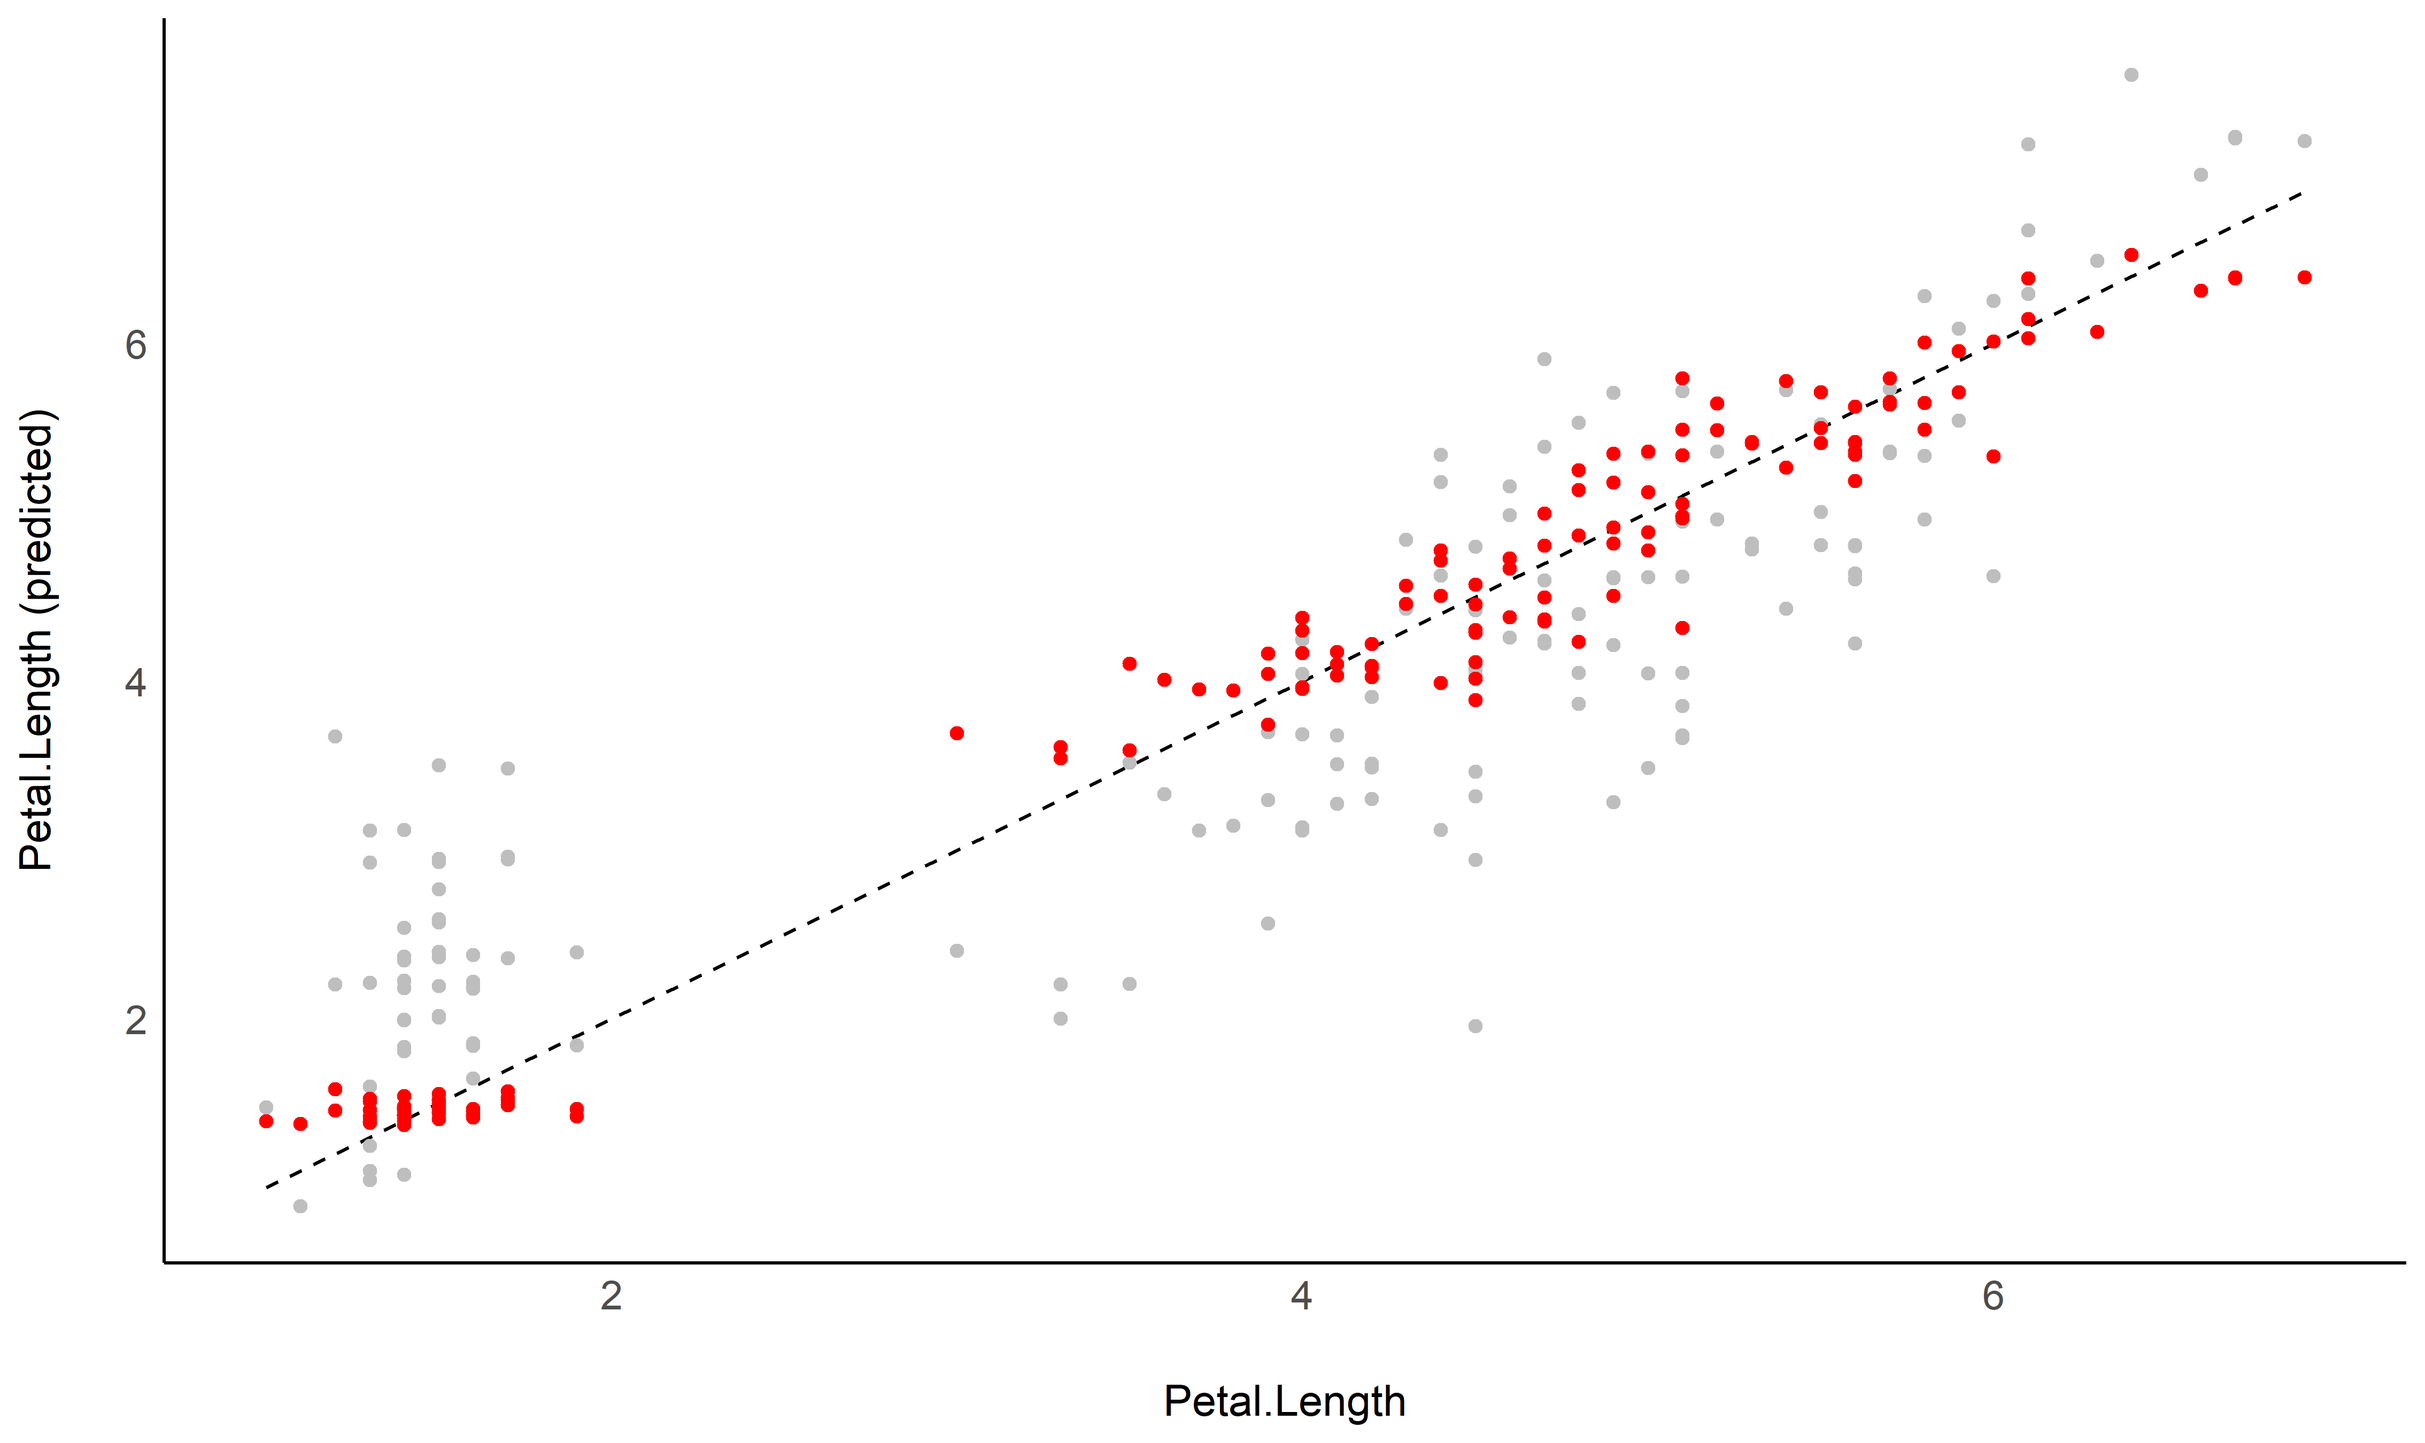
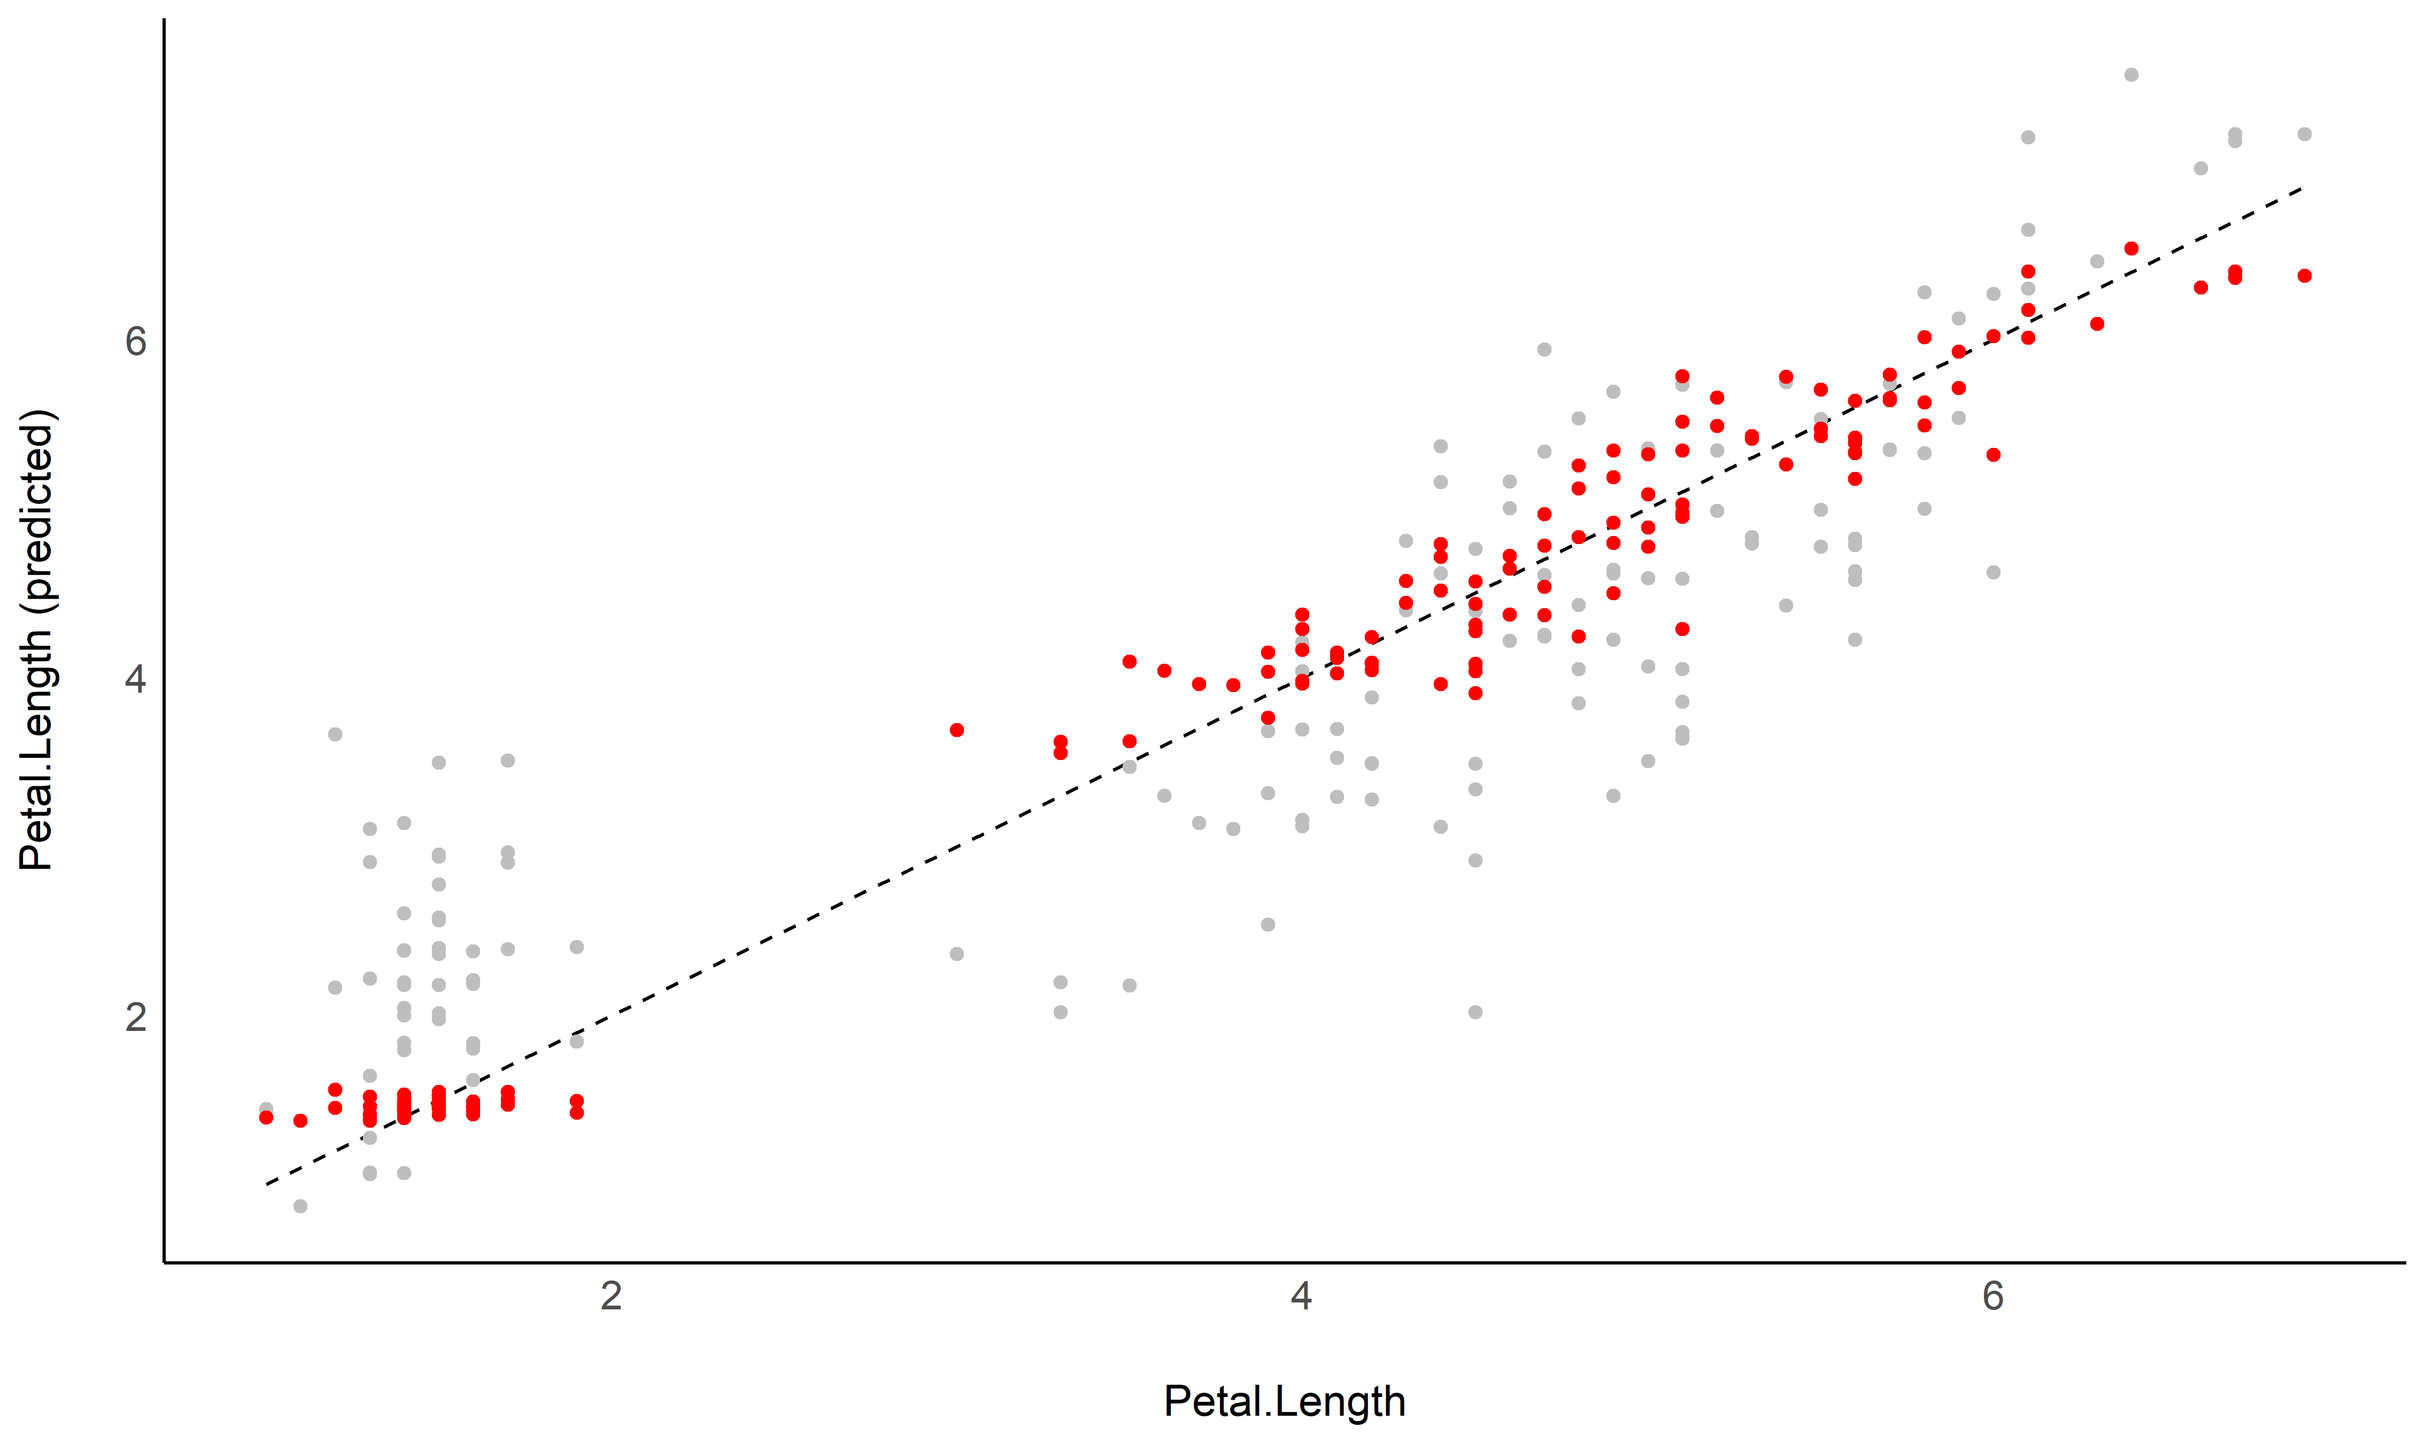
start renaming

diff --git a/README.md b/README.md
@@ -1,13 +1,13 @@
 
-# estimate <img src='man/figures/logo.png' align="right" height="139" />
+# modelbased <img src='man/figures/logo.png' align="right" height="139" />
 
-[![CRAN](http://www.r-pkg.org/badges/version/estimate)](https://cran.r-project.org/package=estimate)
-[![downloads](http://cranlogs.r-pkg.org/badges/estimate)](https://cran.r-project.org/package=estimate)
+[![CRAN](http://www.r-pkg.org/badges/version/modelbased)](https://cran.r-project.org/package=modelbased)
+[![downloads](http://cranlogs.r-pkg.org/badges/modelbased)](https://cran.r-project.org/package=modelbased)
 [![Build
-Status](https://travis-ci.org/easystats/estimate.svg?branch=master)](https://travis-ci.org/easystats/estimate)
-[![codecov](https://codecov.io/gh/easystats/estimate/branch/master/graph/badge.svg)](https://codecov.io/gh/easystats/estimate)
+Status](https://travis-ci.org/easystats/modelbased.svg?branch=master)](https://travis-ci.org/easystats/modelbased)
+[![codecov](https://codecov.io/gh/easystats/modelbased/branch/master/graph/badge.svg)](https://codecov.io/gh/easystats/modelbased)
 
-`estimate` is a lightweight package helping with model-based
+`modelbased` is a lightweight package helping with model-based
 estimations, used in the computation of marginal means, contrast
 analysis and predictions.
 
@@ -17,53 +17,53 @@ Run the following:
 
 ``` r
 install.packages("devtools")
-devtools::install_github("easystats/estimate")
+devtools::install_github("easystats/modelbased")
 ```
 
 ``` r
-library("estimate")
+library("modelbased")
 ```
 
 ## Documentation
 
-[![Documentation](https://img.shields.io/badge/documentation-estimate-orange.svg?colorB=E91E63)](https://easystats.github.io/estimate/)
+[![Documentation](https://img.shields.io/badge/documentation-modelbased-orange.svg?colorB=E91E63)](https://easystats.github.io/modelbased/)
 [![Blog](https://img.shields.io/badge/blog-easystats-orange.svg?colorB=FF9800)](https://easystats.github.io/blog/posts/)
-[![Features](https://img.shields.io/badge/features-estimate-orange.svg?colorB=2196F3)](https://easystats.github.io/estimate/reference/index.html)
+[![Features](https://img.shields.io/badge/features-modelbased-orange.svg?colorB=2196F3)](https://easystats.github.io/modelbased/reference/index.html)
 
 Click on the buttons above to access the package
-[**documentation**](https://easystats.github.io/estimate/) and the
+[**documentation**](https://easystats.github.io/modelbased/) and the
 [**easystats blog**](https://easystats.github.io/blog/posts/), and
 check-out these vignettes:
 
   - [**Visualisation
-    matrix**](https://easystats.github.io/estimate/articles/visualisation_matrix.html)
+    matrix**](https://easystats.github.io/modelbased/articles/visualisation_matrix.html)
   - [**Marginal
-    means**](https://easystats.github.io/estimate/articles/estimate_means.html)
+    means**](https://easystats.github.io/modelbased/articles/estimate_means.html)
   - [**Contrast
-    analysis**](https://easystats.github.io/estimate/articles/estimate_contrasts.html)
+    analysis**](https://easystats.github.io/modelbased/articles/estimate_contrasts.html)
   - [**Use a model to make
-    predictions**](https://easystats.github.io/estimate/articles/estimate_response.html)
+    predictions**](https://easystats.github.io/modelbased/articles/estimate_response.html)
   - [**Describe non-linear
-    curves**](https://easystats.github.io/estimate/articles/estimate_smooth.html)
+    curves**](https://easystats.github.io/modelbased/articles/estimate_smooth.html)
 
 # Features
 
 The package is built around 5 main functions:
 
-  - [`estimate_means()`](https://easystats.github.io/estimate/reference/estimate_means.html):
+  - [`estimate_means()`](https://easystats.github.io/modelbased/reference/estimate_means.html):
     Estimates the average values at each factor levels
-  - [`estimate_contrasts()`](https://easystats.github.io/estimate/reference/estimate_contrasts.html):
+  - [`estimate_contrasts()`](https://easystats.github.io/modelbased/reference/estimate_contrasts.html):
     Estimates and tests contrasts between different factor levels
-  - [`estimate_slopes()`](https://easystats.github.io/estimate/reference/estimate_slopes.html):
+  - [`estimate_slopes()`](https://easystats.github.io/modelbased/reference/estimate_slopes.html):
     Estimates the slopes of numeric predictors at different factor
     levels
-  - [`estimate_response()`](https://easystats.github.io/estimate/reference/estimate_response.html):
+  - [`estimate_response()`](https://easystats.github.io/modelbased/reference/estimate_response.html):
     Predict the response variable using the model
-  - [`estimate_smooth()`](https://easystats.github.io/estimate/reference/estimate_smooth.html):
+  - [`estimate_smooth()`](https://easystats.github.io/modelbased/reference/estimate_smooth.html):
     Describes a non-linear term (*e.g.* in GAMs) by its linear parts
 
 These functions are powered by the
-[`visualisation_matrix()`](https://easystats.github.io/estimate/reference/visualisation_matrix.html)
+[`visualisation_matrix()`](https://easystats.github.io/modelbased/reference/visualisation_matrix.html)
 function, a smart tool for guessing the appropriate reference grid.
 
 The package currently only supports `rstanarm` models, but will be
@@ -74,7 +74,7 @@ expanded to cover a large variety of frequentist and Bayesian models.
 ### Create smart grids to represent complex interactions
 
 Check-out [**this
-vignette**](https://easystats.github.io/estimate/articles/visualisation_matrix.html)
+vignette**](https://easystats.github.io/modelbased/articles/visualisation_matrix.html)
 to create this plot:
 
 ![](man/figures/unnamed-chunk-4-1.png)<!-- -->
@@ -82,7 +82,7 @@ to create this plot:
 ### Estimate marginal means
 
 Check-out [**this
-vignette**](https://easystats.github.io/estimate/reference/estimate_means.html)
+vignette**](https://easystats.github.io/modelbased/reference/estimate_means.html)
 to create this plot:
 
 ![](man/figures/unnamed-chunk-5-1.png)<!-- -->
@@ -97,14 +97,14 @@ estimate_means(model)
 
     ## Species    | Median |       89% CI
     ## ----------------------------------
-    ## setosa     |   3.43 | [3.34, 3.50]
-    ## versicolor |   2.77 | [2.69, 2.84]
-    ## virginica  |   2.97 | [2.89, 3.05]
+    ## setosa     |   3.43 | [3.35, 3.50]
+    ## versicolor |   2.77 | [2.69, 2.85]
+    ## virginica  |   2.98 | [2.90, 3.05]
 
 ### Contrast analysis
 
 Check-out [**this
-vignette**](https://easystats.github.io/estimate/reference/estimate_contrasts.html)
+vignette**](https://easystats.github.io/modelbased/reference/estimate_contrasts.html)
 to create this plot:
 
 ![](man/figures/unnamed-chunk-8-1.png)<!-- -->
@@ -113,9 +113,9 @@ to create this plot:
 estimate_contrasts(model)
 ## Level1     |     Level2 | Median |         89% CI |     pd | % in ROPE | Median (std.)
 ## --------------------------------------------------------------------------------------
-## setosa     | versicolor |   0.65 | [ 0.55,  0.76] |   100% |        0% |          1.50
-## setosa     |  virginica |   0.45 | [ 0.34,  0.56] |   100% |        0% |          1.04
-## versicolor |  virginica |  -0.20 | [-0.31, -0.10] | 99.92% |     6.75% |         -0.46
+## setosa     | versicolor |   0.66 | [ 0.55,  0.77] |   100% |        0% |          1.50
+## setosa     |  virginica |   0.45 | [ 0.34,  0.55] |   100% |        0% |          1.04
+## versicolor |  virginica |  -0.20 | [-0.31, -0.10] | 99.83% |     5.62% |         -0.47
 ```
 
 ### Check the contrasts at different points of another linear predictor
@@ -128,15 +128,15 @@ estimate_contrasts(model, modulate = "Petal.Length", length = 3)
 
     ## Level1     |     Level2 | Petal.Length | Median |        89% CI |     pd | % in ROPE | Median (std.)
     ## ----------------------------------------------------------------------------------------------------
-    ## setosa     | versicolor |         1.00 |   1.54 | [ 1.07, 2.03] |   100% |        0% |          3.53
-    ## setosa     |  virginica |         1.00 |   1.21 | [ 0.67, 1.78] | 99.95% |     0.12% |          2.77
-    ## versicolor |  virginica |         1.00 |  -0.32 | [-1.03, 0.40] | 76.58% |    14.40% |         -0.73
-    ## setosa     | versicolor |         3.95 |   1.80 | [ 1.04, 2.56] |   100% |     0.02% |          4.14
-    ## setosa     |  virginica |         3.95 |   1.84 | [ 1.05, 2.66] |   100% |     0.05% |          4.22
-    ## versicolor |  virginica |         3.95 |   0.03 | [-0.19, 0.25] | 59.52% |    51.20% |          0.08
-    ## setosa     | versicolor |         6.90 |   2.07 | [ 0.61, 3.83] | 97.82% |     0.90% |          4.75
-    ## setosa     |  virginica |         6.90 |   2.45 | [ 0.89, 4.09] | 99.15% |     0.50% |          5.62
-    ## versicolor |  virginica |         6.90 |   0.39 | [-0.05, 0.80] | 92.53% |    10.90% |          0.90
+    ## setosa     | versicolor |         1.00 |   1.52 | [ 1.04, 1.99] |   100% |        0% |          3.49
+    ## setosa     |  virginica |         1.00 |   1.21 | [ 0.67, 1.76] | 99.95% |     0.18% |          2.76
+    ## versicolor |  virginica |         1.00 |  -0.32 | [-1.03, 0.38] | 76.42% |    13.45% |         -0.75
+    ## setosa     | versicolor |         3.95 |   1.81 | [ 1.01, 2.54] |   100% |     0.02% |          4.16
+    ## setosa     |  virginica |         3.95 |   1.85 | [ 1.04, 2.64] | 99.98% |     0.02% |          4.25
+    ## versicolor |  virginica |         3.95 |   0.03 | [-0.19, 0.25] | 59.13% |    51.60% |          0.07
+    ## setosa     | versicolor |         6.90 |   2.11 | [ 0.45, 3.67] | 97.95% |     0.92% |          4.83
+    ## setosa     |  virginica |         6.90 |   2.47 | [ 0.96, 4.17] | 99.33% |     0.45% |          5.67
+    ## versicolor |  virginica |         6.90 |   0.38 | [-0.07, 0.77] | 91.97% |    11.33% |          0.88
 
 ### Find a predictor’s slopes at each factor level
 
@@ -144,15 +144,15 @@ estimate_contrasts(model, modulate = "Petal.Length", length = 3)
 estimate_slopes(model)
 ## Species    | Median |       89% CI |     pd | % in ROPE | Median (std.)
 ## -----------------------------------------------------------------------
-## setosa     |   0.42 | [0.12, 0.71] | 98.58% |     3.85% |          1.71
-## versicolor |   0.33 | [0.18, 0.47] |   100% |     0.57% |          1.35
-## virginica  |   0.21 | [0.08, 0.33] | 99.67% |     7.83% |          0.85
+## setosa     |   0.43 | [0.13, 0.73] | 98.80% |     3.95% |          1.73
+## versicolor |   0.33 | [0.18, 0.46] |   100% |     0.47% |          1.33
+## virginica  |   0.21 | [0.10, 0.34] | 99.45% |     6.93% |          0.84
 ```
 
 ### Generate predictions from your model to compare it with original data
 
 Check-out [**this
-vignette**](https://easystats.github.io/estimate/reference/estimate_response.html)
+vignette**](https://easystats.github.io/modelbased/reference/estimate_response.html)
 to create this plot:
 
 ![](man/figures/unnamed-chunk-13-1.png)<!-- -->
@@ -163,19 +163,19 @@ estimate_response(model)
 
 | Sepal.Length | Species | Median | CI\_low | CI\_high |
 | -----------: | :------ | -----: | ------: | -------: |
-|          5.1 | setosa  |   1.48 |    1.04 |     1.93 |
-|          4.9 | setosa  |   1.46 |    1.05 |     1.88 |
-|          4.7 | setosa  |   1.43 |    1.04 |     1.90 |
-|          4.6 | setosa  |   1.40 |    0.95 |     1.80 |
-|          5.0 | setosa  |   1.45 |    1.08 |     1.89 |
-|          5.4 | setosa  |   1.51 |    1.10 |     1.93 |
+|          5.1 | setosa  |   1.47 |    1.07 |     1.90 |
+|          4.9 | setosa  |   1.45 |    0.98 |     1.85 |
+|          4.7 | setosa  |   1.42 |    1.03 |     1.89 |
+|          4.6 | setosa  |   1.41 |    0.99 |     1.86 |
+|          5.0 | setosa  |   1.46 |    1.05 |     1.87 |
+|          5.4 | setosa  |   1.52 |    1.13 |     1.97 |
 
 ### Estimate the link between the response and a predictor
 
 See [**this
-vignette**](https://easystats.github.io/estimate/reference/estimate_response.html)
+vignette**](https://easystats.github.io/modelbased/reference/estimate_response.html)
 to create this plot:
-<img src="https://github.com/easystats/estimate/raw/master/man/figures/gganimate_figure.gif" width="80%" style="display: block; margin: auto;" />
+<img src="https://github.com/easystats/modelbased/raw/master/man/figures/gganimate_figure.gif" width="80%" style="display: block; margin: auto;" />
 
 ``` r
 model <- stan_glm(Sepal.Width ~ poly(Petal.Length, 2), data=iris)
@@ -185,13 +185,13 @@ estimate_link(model)
 
 | Petal.Length | Median | CI\_low | CI\_high |
 | -----------: | -----: | ------: | -------: |
-|         1.00 |   3.62 |    3.52 |     3.73 |
+|         1.00 |   3.62 |    3.51 |     3.73 |
 |         1.98 |   3.18 |    3.11 |     3.24 |
-|         2.97 |   2.90 |    2.82 |     2.98 |
-|         3.95 |   2.78 |    2.71 |     2.86 |
-|         4.93 |   2.83 |    2.77 |     2.89 |
-|         5.92 |   3.05 |    2.97 |     3.14 |
-|         6.90 |   3.44 |    3.25 |     3.63 |
+|         2.97 |   2.90 |    2.82 |     2.97 |
+|         3.95 |   2.78 |    2.71 |     2.85 |
+|         4.93 |   2.83 |    2.78 |     2.89 |
+|         5.92 |   3.05 |    2.96 |     3.14 |
+|         6.90 |   3.43 |    3.25 |     3.62 |
 
 ### Describe the smooth term by its linear parts
 
@@ -199,6 +199,6 @@ estimate_link(model)
 estimate_smooth(model)
 ## Part | Start |  End |   Size | Trend | Linearity
 ## ------------------------------------------------
-## 1    |  1.00 | 4.11 | 53.00% | -0.01 |      0.94
-## 2    |  4.11 | 6.90 | 47.00% |  0.01 |      0.94
+## 1    |  1.00 | 4.08 | 52.50% | -0.01 |      0.94
+## 2    |  4.08 | 6.90 | 47.50% |  0.01 |      0.93
 ```
